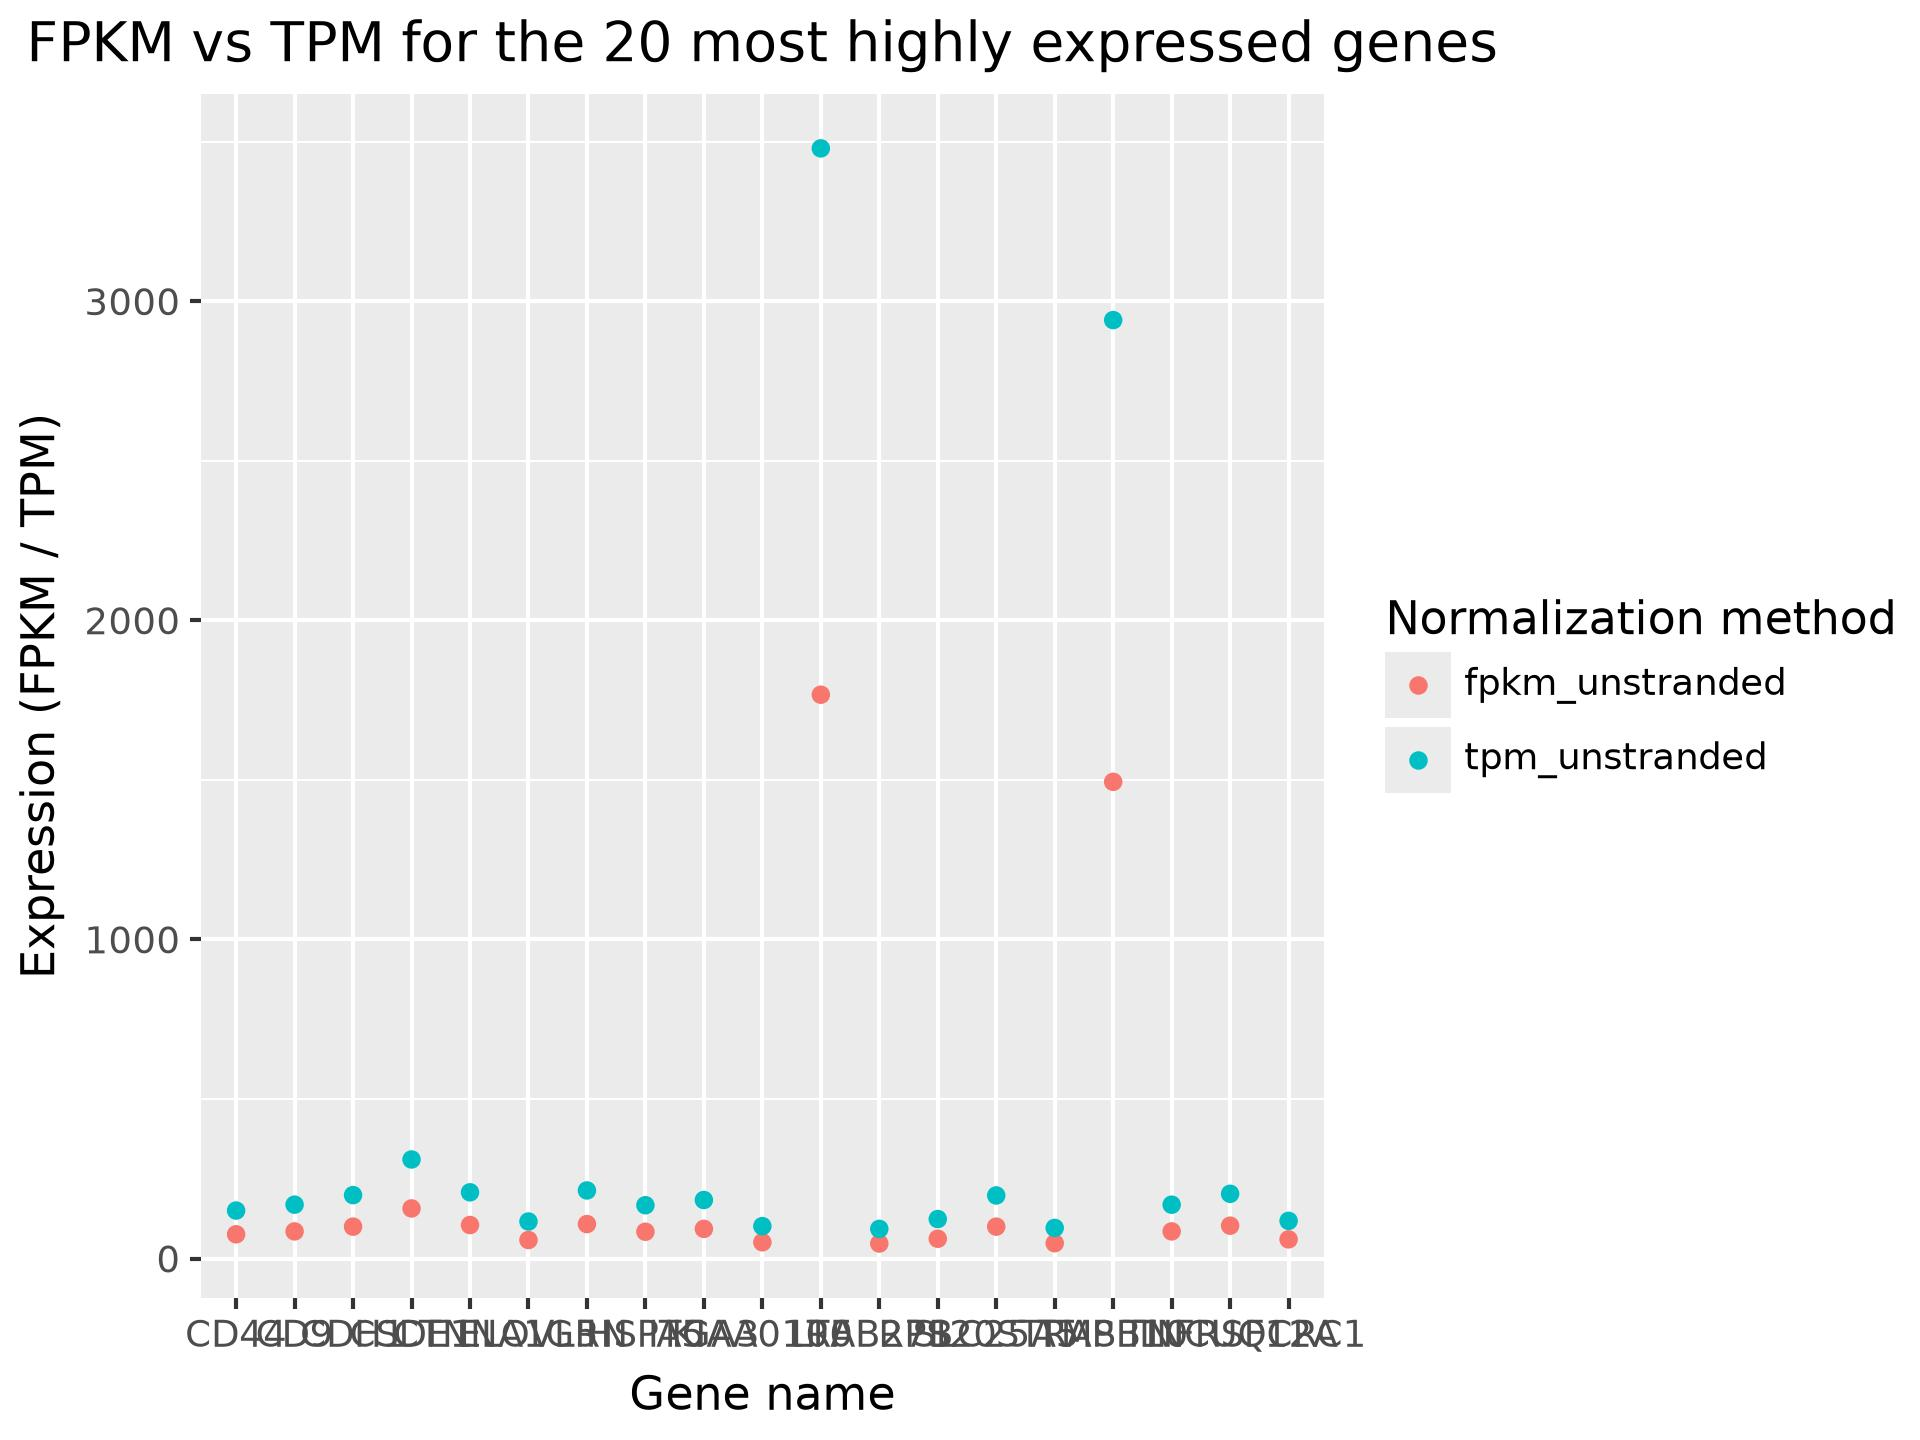
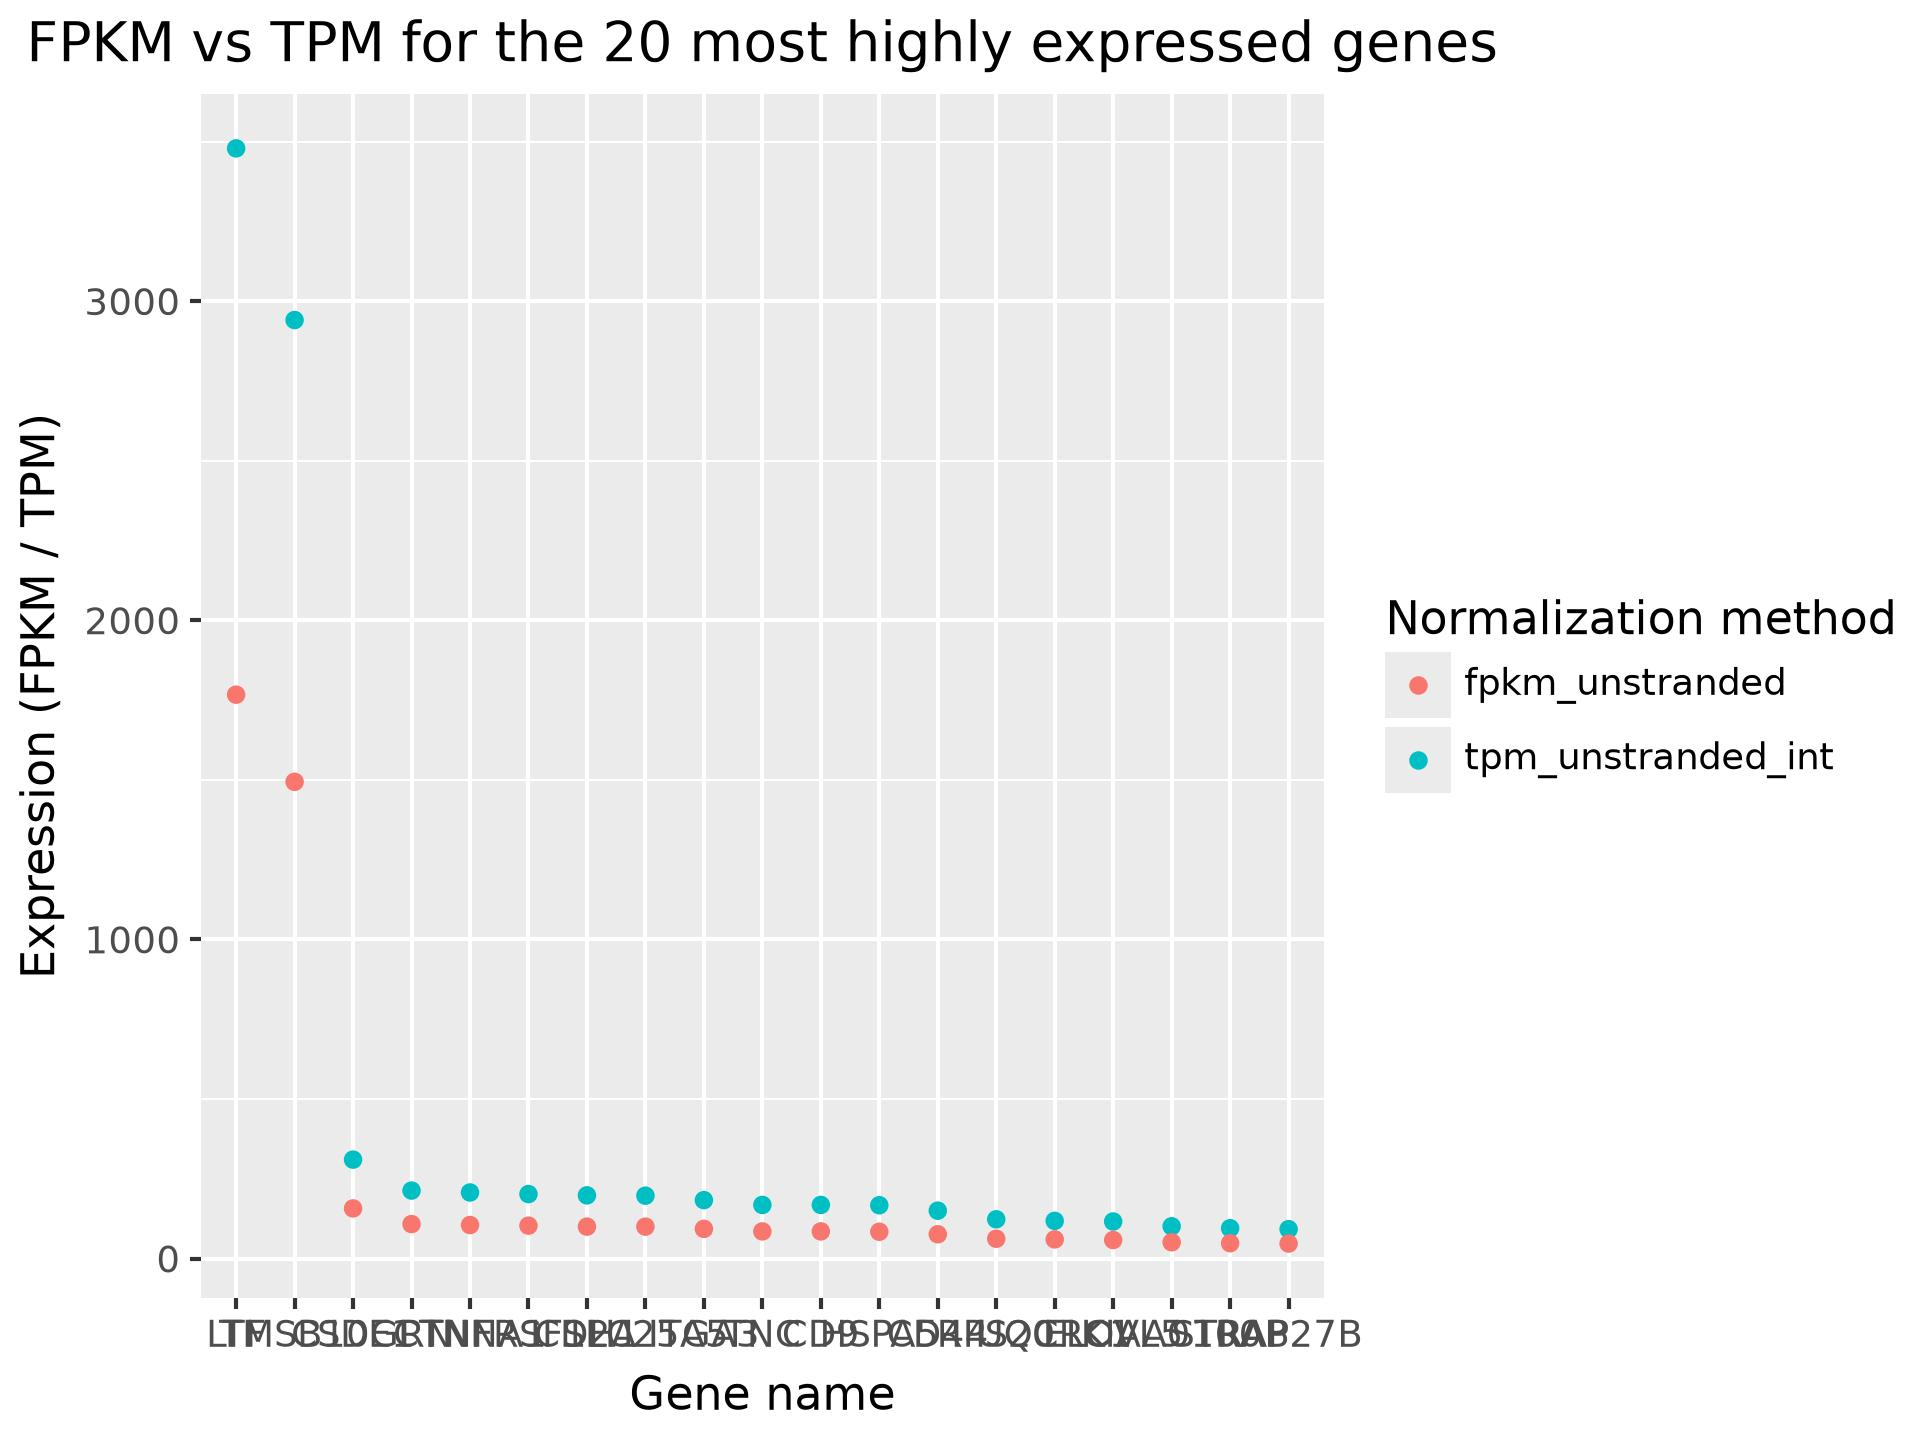
Sorted now

diff --git a/Dugga_test/sacha/Part2.py b/Dugga_test/sacha/Part2.py
@@ -15,6 +15,7 @@ top20_df = df.iloc[0:19]
 
 # 2.1.c
 
+# Melt the top 20 genes
 top20_long = pd.melt(
     top20_df,
     id_vars=["gene_name"],
@@ -23,14 +24,34 @@ top20_long = pd.melt(
     value_name="Y"
 )
 
-print(top20_long)
+# Sort genes by their maximum Y, descending,
+# then sort Y within each gene, descending
+gene_order = (
+    top20_long.groupby("gene_name")["Y"]
+    .max()
+    .sort_values(ascending=False)
+    .index
+)
+
+top20_long["gene_name"] = pd.Categorical(
+    top20_long["gene_name"],
+    categories=gene_order,
+    ordered=True
+)
+
+top20_long = top20_long.sort_values(
+    by=["gene_name", "Y"],
+    ascending=[True, False]
+)
+
+## Plot
 top20_fig1_scatter= (
     ggplot(
         top20_long,
         aes(
             x='gene_name',
-            y='expression',
-            color='method'
+            y='Y',
+            color='Y1 vs Y2'
         )
     )
     + geom_point()
